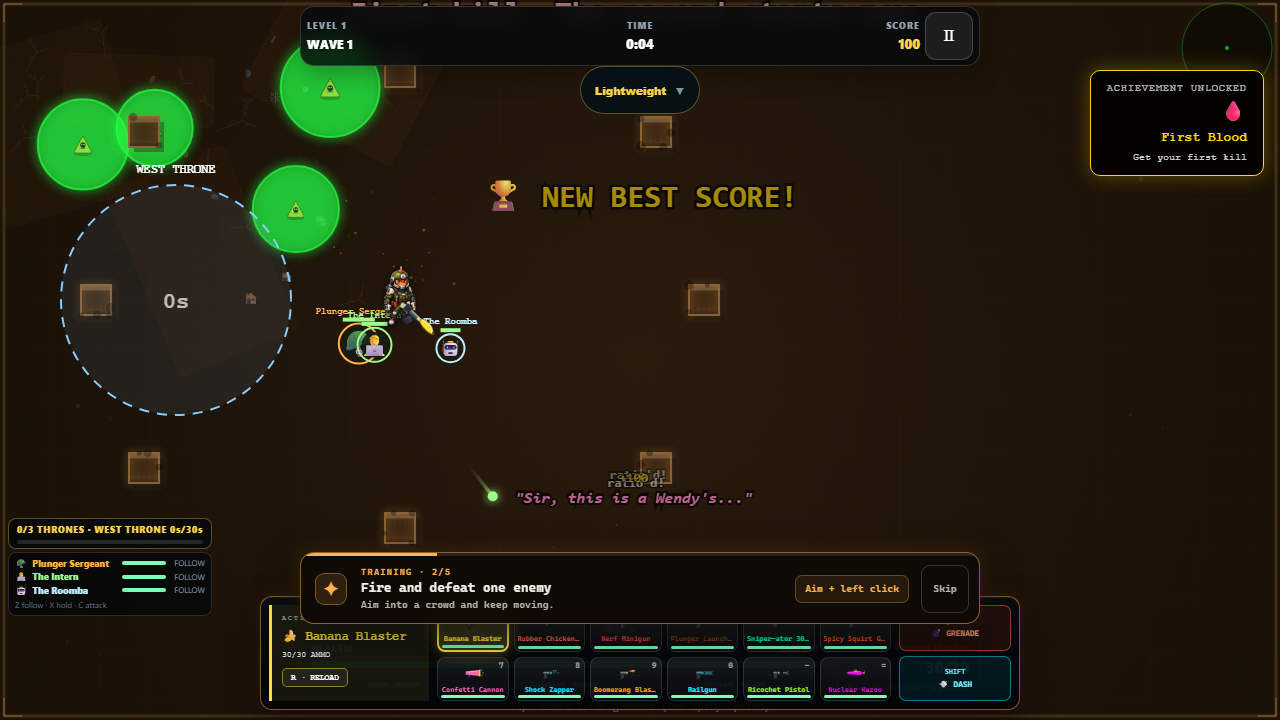
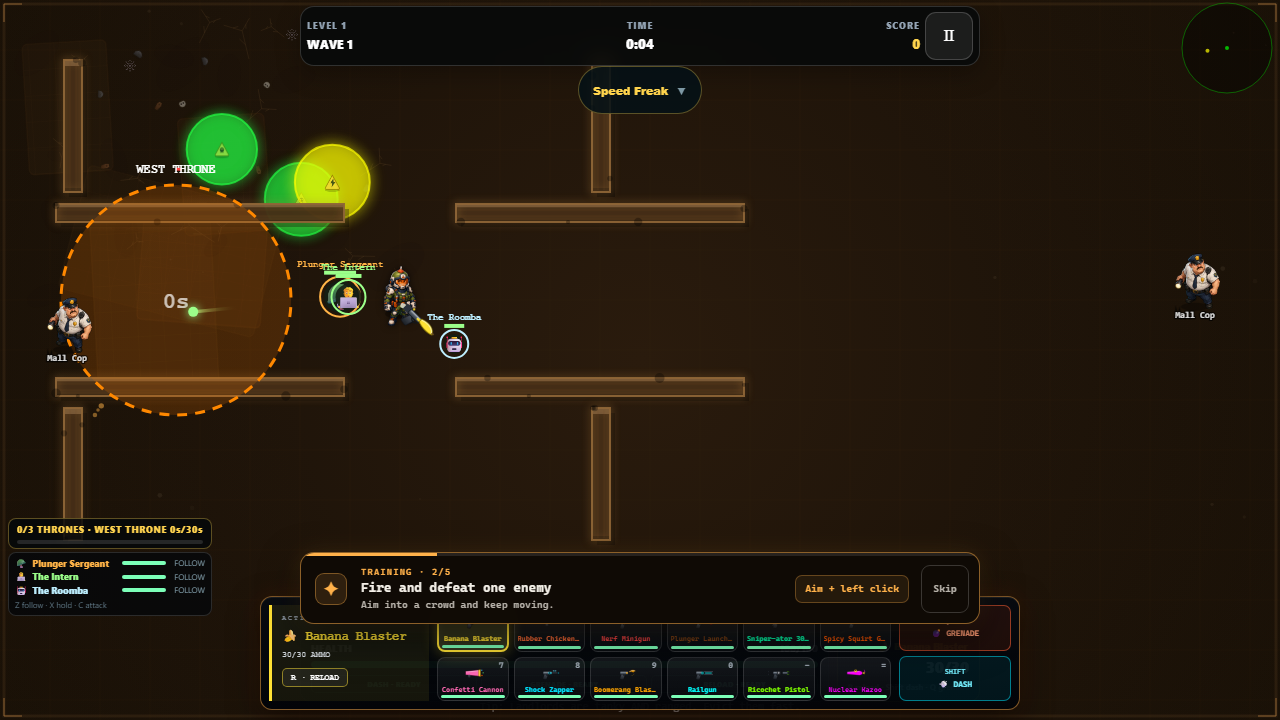
fix: review pass — dark tokens on game surfaces, literal hex for canvas/hexToRgb data, render once per frame
- data-cod-surface="game" on the game container and DeathScreen re-locks the dark palette under Porcelain Day (tokens.css block generated from BRAND_TOKENS.dark)
- LeaderboardPanel MODE_TABS/LEVEL_TIERS and DeathScreen score-card pill colors back to literal hex (they feed hexToRgb and an off-DOM canvas)
- useGameLoop passes { render } so catch-up steps simulate without redrawing; gameLoop draws only on the last step
- WORK_LOG / CURRENT_STATE / hot context record the review

Claude-Session: https://claude.ai/code/session_014Wa2brAruU5m5eEzTZsCjX

diff --git a/src/components/LeaderboardPanel.jsx b/src/components/LeaderboardPanel.jsx
@@ -4,10 +4,10 @@ import CommunityStatsPanel from "./CommunityStatsPanel.jsx";
 
 const MODE_TABS = [
   { key: null,              label: "ALL",          color: "#AAA" },
-  { key: "normal",          label: "🎯 NORMAL",     color: "var(--cod-gold)" },
-  { key: "score_attack",    label: "⏱ SCORE ATK",  color: "var(--cod-orange)" },
-  { key: "daily_challenge", label: "📅 DAILY",      color: "var(--cod-cyan)" },
-  { key: "boss_rush",       label: "☠ BOSS RUSH",  color: "var(--cod-danger)" },
+  { key: "normal",          label: "🎯 NORMAL",     color: "#ffd34f" },
+  { key: "score_attack",    label: "⏱ SCORE ATK",  color: "#ff6b22" },
+  { key: "daily_challenge", label: "📅 DAILY",      color: "#33e6ff" },
+  { key: "boss_rush",       label: "☠ BOSS RUSH",  color: "#ff3b3b" },
   { key: "cursed",          label: "☠ CURSED",      color: "#CC00FF" },
   { key: "speedrun",        label: "🏃 SPEEDRUN",   color: "#00FF88" },
   { key: "gauntlet",        label: "🏋 GAUNTLET",   color: "#AA44FF" },
@@ -39,7 +39,7 @@ function InputDeviceBadge({ device }) {
 // ── Account level badge ───────────────────────────────────────────────────────
 const LEVEL_TIERS = [
   { min: 100, color: "#CC44FF", bg: "rgba(160,0,255,0.18)", border: "#AA22FF", label: "👑" },
-  { min: 50,  color: "var(--cod-gold)", bg: "rgba(255,215,0,0.18)",  border: "#CC9900", label: "★" },
+  { min: 50,  color: "#ffd34f", bg: "rgba(255,215,0,0.18)",  border: "#CC9900", label: "★" },
   { min: 25,  color: "#C0C0C0", bg: "rgba(200,200,200,0.15)", border: "#A0A0A0", label: "◈" },
   { min: 10,  color: "#CD7F32", bg: "rgba(160,90,40,0.2)",   border: "#A05820", label: "◆" },
   { min: 1,   color: "#888888", bg: "rgba(120,120,120,0.12)", border: "#555",   label: "·" },
@@ -82,8 +82,8 @@ function AccountLevelBadge({ level }) {
 const DIFF_TABS = [
   { key: null,     label: "ALL",    emoji: "🌐", color: "#AAA" },
   { key: "easy",   label: "EASY",   emoji: "🟢", color: "#44CC44" },
-  { key: "normal", label: "NORMAL", emoji: "🟡", color: "var(--cod-gold)" },
-  { key: "hard",   label: "HARD",   emoji: "🔴", color: "var(--cod-danger)" },
+  { key: "normal", label: "NORMAL", emoji: "🟡", color: "#ffd34f" },
+  { key: "hard",   label: "HARD",   emoji: "🔴", color: "#ff3b3b" },
   { key: "insane", label: "INSANE", emoji: "💀", color: "#FF00FF" },
 ];
 

diff --git a/src/App.jsx b/src/App.jsx
@@ -2416,7 +2416,7 @@ export default function CallOfDoodie() {
   }), []);
 
   // ── GAME LOOP ─────────────────────────────────────────────────────────────
-  const gameLoop = useCallback(() => {
+  const gameLoop = useCallback(({ render = true } = {}) => {
     const gs = gsRef.current;
     if (!gs) return;
     if ((gs.runPhase || RUN_PHASE.PLAYING) !== RUN_PHASE.PLAYING) return;
@@ -3384,7 +3384,8 @@ export default function CallOfDoodie() {
     frameCountRef.current++;
 
     // ────────────────── RENDER ──────────────────────────────────────────────
-    drawGame(ctx, canvas, W, H, gs, { dashRef, mouseRef, joystickRef, shootStickRef, startTimeRef, frameCountRef, isMobile, tip, wpnIdx });
+    // S163 fixed step: catch-up steps simulate only; the last step of the frame renders.
+    if (render) drawGame(ctx, canvas, W, H, gs, { dashRef, mouseRef, joystickRef, shootStickRef, startTimeRef, frameCountRef, isMobile, tip, wpnIdx });
 
   }, [handleModeVictory, shoot, spawnEnemy, spawnBoss, doReload, isMobile, checkAchievements, checkDailyMissions, tip, handlePlayerDeath, addXp, openQueuedPerkSelection, operationStateRef, resolveOperationWave, sampleCommandTrace, inputDebugEnabled, dashReady, grenadeReady]);
 
@@ -3846,7 +3847,9 @@ export default function CallOfDoodie() {
     });
     return (
       <AsyncPanelBoundary>
-        <DeathScreen {...deathScreenProps} />
+        <div data-cod-surface="game">
+          <DeathScreen {...deathScreenProps} />
+        </div>
       </AsyncPanelBoundary>
     );
   }
@@ -3855,7 +3858,7 @@ export default function CallOfDoodie() {
   const xpNeeded = getLevelXpNeeded(level);
   const nextPerkLevel = getNextPerkLevel(level);
   return (
-    <div ref={containerRef} style={base}>
+    <div ref={containerRef} style={base} data-cod-surface="game">
       {/* Accessibility: skip-to-game link for keyboard users */}
       <a href="#game-canvas" className="skip-link">Skip to game</a>
       {/* Accessibility: aria-live region announces wave/boss events to screen readers */}

diff --git a/src/components/DeathScreen.jsx b/src/components/DeathScreen.jsx
@@ -293,7 +293,7 @@ export default function DeathScreen({
     // ── Match HUD: left side stat pills ───────────────────────────────────────
     const _pillY = 120, _pillH = 36, _pillGap = 8;
     const _pills = [
-      { label: "WAVE", val: String(wave), color: "var(--cod-danger)" },
+      { label: "WAVE", val: String(wave), color: "#ff3b3b" },
       { label: "KILLS", val: String(kills), color: "#00FF88" },
       { label: "STREAK", val: String(bestStreak), color: "#FF8800" },
     ];
@@ -330,10 +330,10 @@ export default function DeathScreen({
 
     // ── Stats row ─────────────────────────────────────────────────────────────
     const _stats = [
-      { val: "LV " + level, label: "LEVEL", color: "var(--cod-cyan)" },
+      { val: "LV " + level, label: "LEVEL", color: "#33e6ff" },
       { val: kills, label: "ELIMINATED", color: "#00FF88" },
-      { val: "WAVE " + wave, label: "REACHED", color: "var(--cod-danger)" },
-      { val: fmtTime(timeSurvived), label: "SURVIVED", color: "var(--cod-cyan)" },
+      { val: "WAVE " + wave, label: "REACHED", color: "#ff3b3b" },
+      { val: fmtTime(timeSurvived), label: "SURVIVED", color: "#33e6ff" },
     ];
     const _sw = W / _stats.length;
     _stats.forEach((s, i) => {

diff --git a/public/tokens.css b/public/tokens.css
@@ -64,6 +64,29 @@
   color-scheme: light;
 }
 
+/* Game surfaces (arena, HUD, pause, perks, debrief) always sit on a dark canvas; keep the dark palette there even under Porcelain Day. */
+[data-cod-surface="game"] {
+  --cod-bg: #070b10;
+  --cod-bg-deep: #020305;
+  --cod-page: linear-gradient(180deg,#070b10 0%,#020305 72%,#070402 100%);
+  --cod-ink: #f4f0e8;
+  --cod-muted: #b7b2aa;
+  --cod-quiet: #8f8a83;
+  --cod-panel: rgba(255,255,255,0.035);
+  --cod-panel-strong: rgba(15,10,5,0.98);
+  --cod-panel-soft: rgba(0,0,0,0.32);
+  --cod-line: rgba(255,255,255,0.14);
+  --cod-line-warm: rgba(255,160,60,0.28);
+  --cod-shadow: rgba(0,0,0,0.60);
+  --cod-orange: #ff6b22;
+  --cod-orange-ink: #1c0900;
+  --cod-gold: #ffd34f;
+  --cod-cyan: #33e6ff;
+  --cod-green: #7cffb8;
+  --cod-danger: #ff3b3b;
+  --cod-focus: #33e6ff;
+}
+
 /* CRT effects are opt-in utilities; off in light scheme and reduced motion. */
 .fx-scanlines { position: relative; isolation: isolate; }
 .fx-scanlines::before { content: ""; position: fixed; inset: 0; z-index: 4; pointer-events: none; opacity: .16; background: repeating-linear-gradient(0deg, transparent 0 3px, rgba(0,0,0,.55) 4px); mix-blend-mode: multiply; }

diff --git a/src/styles/tokens.css b/src/styles/tokens.css
@@ -64,6 +64,29 @@
   color-scheme: light;
 }
 
+/* Game surfaces (arena, HUD, pause, perks, debrief) always sit on a dark canvas; keep the dark palette there even under Porcelain Day. */
+[data-cod-surface="game"] {
+  --cod-bg: #070b10;
+  --cod-bg-deep: #020305;
+  --cod-page: linear-gradient(180deg,#070b10 0%,#020305 72%,#070402 100%);
+  --cod-ink: #f4f0e8;
+  --cod-muted: #b7b2aa;
+  --cod-quiet: #8f8a83;
+  --cod-panel: rgba(255,255,255,0.035);
+  --cod-panel-strong: rgba(15,10,5,0.98);
+  --cod-panel-soft: rgba(0,0,0,0.32);
+  --cod-line: rgba(255,255,255,0.14);
+  --cod-line-warm: rgba(255,160,60,0.28);
+  --cod-shadow: rgba(0,0,0,0.60);
+  --cod-orange: #ff6b22;
+  --cod-orange-ink: #1c0900;
+  --cod-gold: #ffd34f;
+  --cod-cyan: #33e6ff;
+  --cod-green: #7cffb8;
+  --cod-danger: #ff3b3b;
+  --cod-focus: #33e6ff;
+}
+
 /* CRT effects are opt-in utilities; off in light scheme and reduced motion. */
 .fx-scanlines { position: relative; isolation: isolate; }
 .fx-scanlines::before { content: ""; position: fixed; inset: 0; z-index: 4; pointer-events: none; opacity: .16; background: repeating-linear-gradient(0deg, transparent 0 3px, rgba(0,0,0,.55) 4px); mix-blend-mode: multiply; }

diff --git a/src/utils/theme.js b/src/utils/theme.js
@@ -153,6 +153,9 @@ export function tokensToCss() {
     block(":root", { ...BRAND_TOKENS.shared, ...BRAND_TOKENS.dark, "color-scheme": "dark" }),
     block(':root[data-cod-theme="porcelain-day"]', { ...BRAND_TOKENS.light, "color-scheme": "light" }),
     "",
+    "/* Game surfaces (arena, HUD, pause, perks, debrief) always sit on a dark canvas; keep the dark palette there even under Porcelain Day. */",
+    block('[data-cod-surface="game"]', BRAND_TOKENS.dark),
+    "",
     "/* CRT effects are opt-in utilities; off in light scheme and reduced motion. */",
     ".fx-scanlines { position: relative; isolation: isolate; }",
     ".fx-scanlines::before { content: \"\"; position: fixed; inset: 0; z-index: 4; pointer-events: none; opacity: .16; background: repeating-linear-gradient(0deg, transparent 0 3px, rgba(0,0,0,.55) 4px); mix-blend-mode: multiply; }",

diff --git a/src/hooks/useGameLoop.js b/src/hooks/useGameLoop.js
@@ -242,7 +242,7 @@ export function useGameLoop(callback, active, rafRef, {
       const steps = clock.advance(timestamp);
       for (let i = 0; i < steps; i += 1) {
         const result = runFrameSafely(
-          () => runMeasuredFrame(() => cbRef.current(), monRef.current, { shouldMeasure: sample && i === 0 }),
+          () => runMeasuredFrame(() => cbRef.current({ render: i === steps - 1 }), monRef.current, { shouldMeasure: sample && i === 0 }),
           (error) => errorRef.current?.(error),
         );
         if (!result.ok) break;

diff --git a/context/HOT_CONTEXT.md b/context/HOT_CONTEXT.md
@@ -13,6 +13,7 @@
 - Site truth — `/play/` is retired with a 301 to the in-app deploy anchor; `/roadmap/` publishes shipped/next/later from `src/content/roadmap.js` and carries the honest "real-time co-op is not live" claim that left the changelog; the footer is three labelled groups shared by React and static pages from one `FOOTER_GROUPS` source; README feature claims regenerate from runtime constants and are checked at build; the cosmetic drop track is hidden until its art is complete and "early access" copy is gone.
 - Validation truth — full Vitest passes 221/221 files and 1,286/1,286 assertions; strict lint, deployable build, public contract and claims, security release gate, architecture budget, and token-drift checks pass. Playwright passes 19 with one intentional mobile skip. A real-browser smoke deploys both new modes and reads their HUD banners; fourteen theme captures across both schemes and mobile were directly reviewed.
 - Review truth — a code review found the ally-kill discount was unreachable (fixed by threading the owner through defeat metadata) and self-review found Boss Gauntlet never applied its ruleset so the boss rotation slot went negative on waves 1–4 (fixed by applying the mode definition's ruleset at run start).
+- Review truth (post-closeout) — game surfaces re-lock the dark tokens under `[data-cod-surface="game"]` (proven with a Porcelain Day in-run capture); color data that feeds `hexToRgb` or an off-DOM canvas stays literal hex; catch-up steps simulate without drawing.
 - Propagation truth — the synced `brief-format-check.yml` regressed to Node 20 a second time; the Node 22 floor was restored locally and the root-fix remains owned by studio-ops.
 - Lifecycle truth — cost-neutral, deployed, FORGE, public-unlaunched; SPARKED remains NO-GO. App chunk is 584 KB against the 493 KB S145 budget; the bundle diet is a scheduled follow-up.
 
@@ -104,7 +105,7 @@
 
 ## Source Index
 
-- `context/CURRENT_STATE.md` · 210,278 bytes · SHA-256 `e7cf058cdd22…`
+- `context/CURRENT_STATE.md` · 210,545 bytes · SHA-256 `5d58dce673ba…`
 - `context/TASK_BOARD.md` · 133,375 bytes · SHA-256 `3b72468cd287…`
 - `context/DECISIONS.md` · 133,822 bytes · SHA-256 `ad4a33a01c21…`
 - `docs/AUDIT_2026-09-03.json` · 3,485 bytes · SHA-256 `ca3a8e698c1c…`

diff --git a/context/CURRENT_STATE.md b/context/CURRENT_STATE.md
@@ -7,6 +7,7 @@
 - Site truth — `/play/` is retired with a 301 to the in-app deploy anchor; `/roadmap/` publishes shipped/next/later from `src/content/roadmap.js` and carries the honest "real-time co-op is not live" claim that left the changelog; the footer is three labelled groups shared by React and static pages from one `FOOTER_GROUPS` source; README feature claims regenerate from runtime constants and are checked at build; the cosmetic drop track is hidden until its art is complete and "early access" copy is gone.
 - Validation truth — full Vitest passes 221/221 files and 1,286/1,286 assertions; strict lint, deployable build, public contract and claims, security release gate, architecture budget, and token-drift checks pass. Playwright passes 19 with one intentional mobile skip. A real-browser smoke deploys both new modes and reads their HUD banners; fourteen theme captures across both schemes and mobile were directly reviewed.
 - Review truth — a code review found the ally-kill discount was unreachable (fixed by threading the owner through defeat metadata) and self-review found Boss Gauntlet never applied its ruleset so the boss rotation slot went negative on waves 1–4 (fixed by applying the mode definition's ruleset at run start).
+- Review truth (post-closeout) — game surfaces re-lock the dark tokens under `[data-cod-surface="game"]` (proven with a Porcelain Day in-run capture); color data that feeds `hexToRgb` or an off-DOM canvas stays literal hex; catch-up steps simulate without drawing.
 - Propagation truth — the synced `brief-format-check.yml` regressed to Node 20 a second time; the Node 22 floor was restored locally and the root-fix remains owned by studio-ops.
 - Lifecycle truth — cost-neutral, deployed, FORGE, public-unlaunched; SPARKED remains NO-GO. App chunk is 584 KB against the 493 KB S145 budget; the bundle diet is a scheduled follow-up.
 

diff --git a/logs/WORK_LOG.md b/logs/WORK_LOG.md
@@ -13,6 +13,8 @@
 
 - Closeout push was rejected because origin carried six unpulled commits (dependabot dev bumps, protocol doc sync, a workflow sync). Rebased cleanly, reinstalled dependencies after killing two zombie preview processes that held the rollup binary, and re-ran every gate. The synced `brief-format-check.yml` had regressed to Node 20 again (the S160 regression); restored the Node 22 floor as a bounded repair.
 
+- Post-closeout review (founder-requested): scoped the dark palette to game surfaces (`data-cod-surface="game"`) so Porcelain Day cannot darken the HUD, pause, perks, or debrief on the dark arena; reverted tokens in data objects that feed `hexToRgb` (leaderboard tabs/tiers) and the off-DOM score-card canvas (death-screen pills); catch-up simulation steps no longer redraw the canvas — only the last step of a frame renders.
+
 Intent outcome: achieved — the founder's three complaints (identical modes, no teammates, theme jumps) each have shipped, verified fixes; the remaining plan is ordered in the audit.
 
 ## 2026-08-25/26 (Session 162 — corrective-order evidence across runs)
